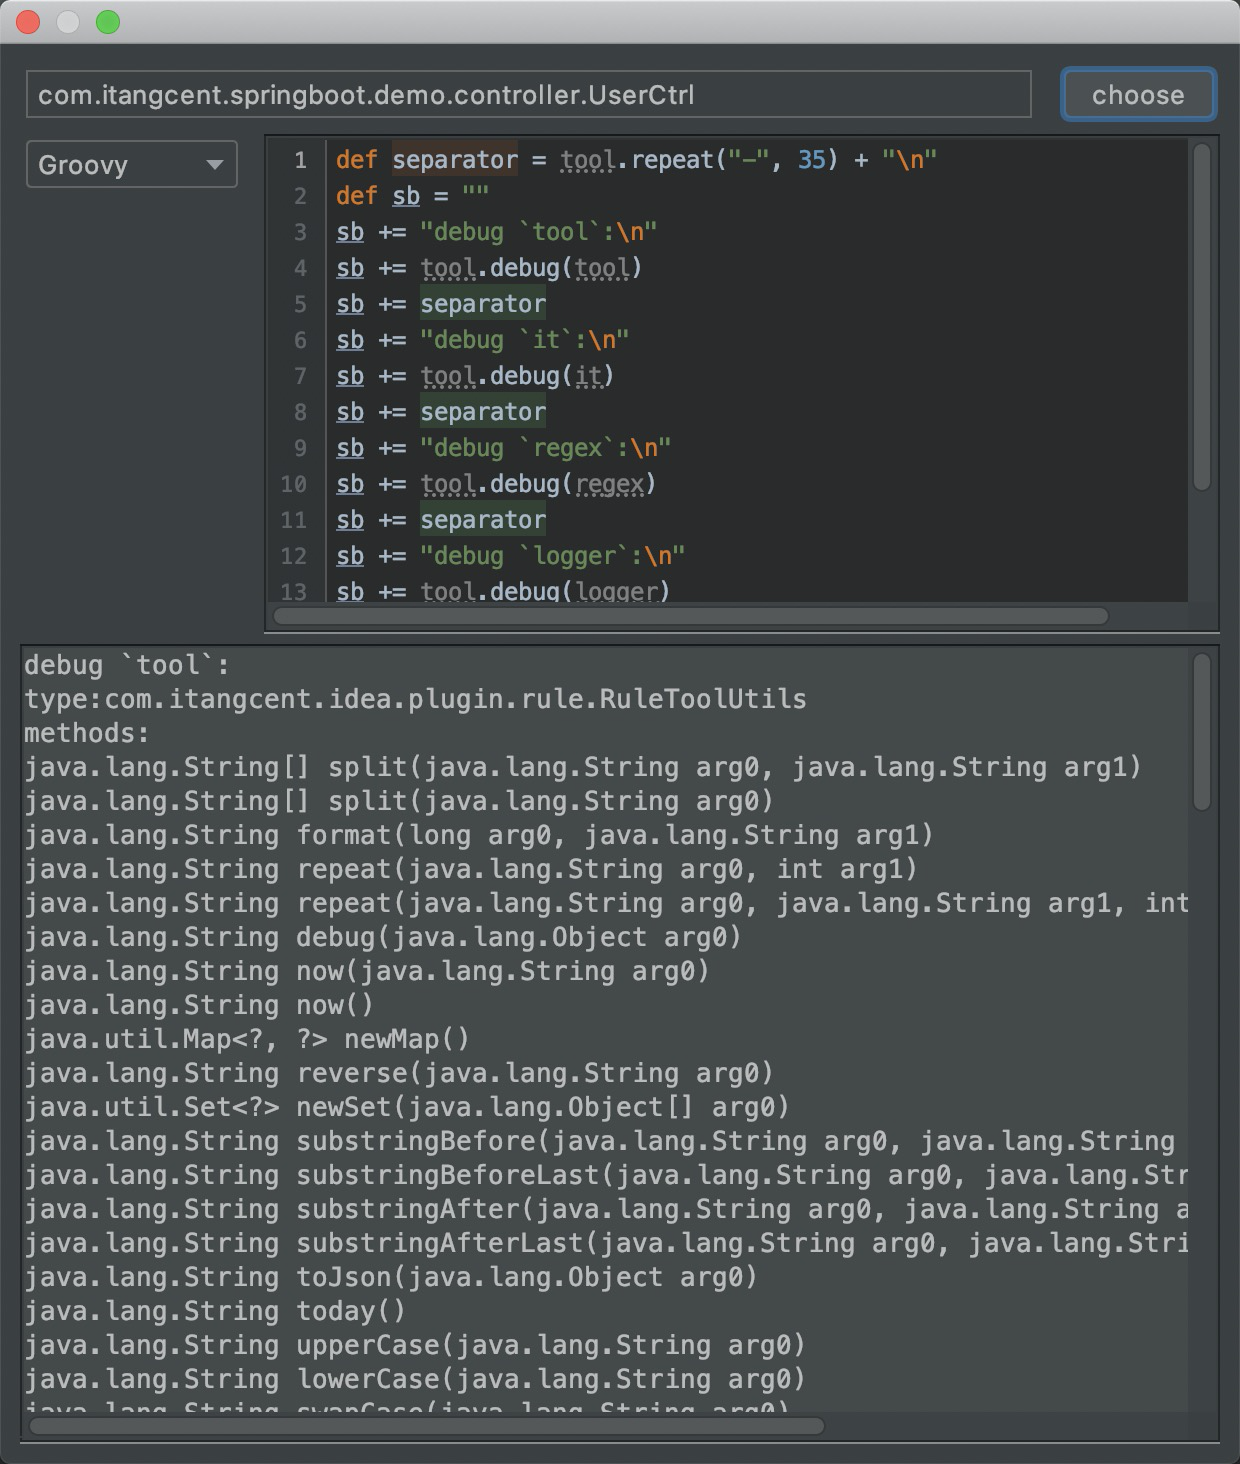
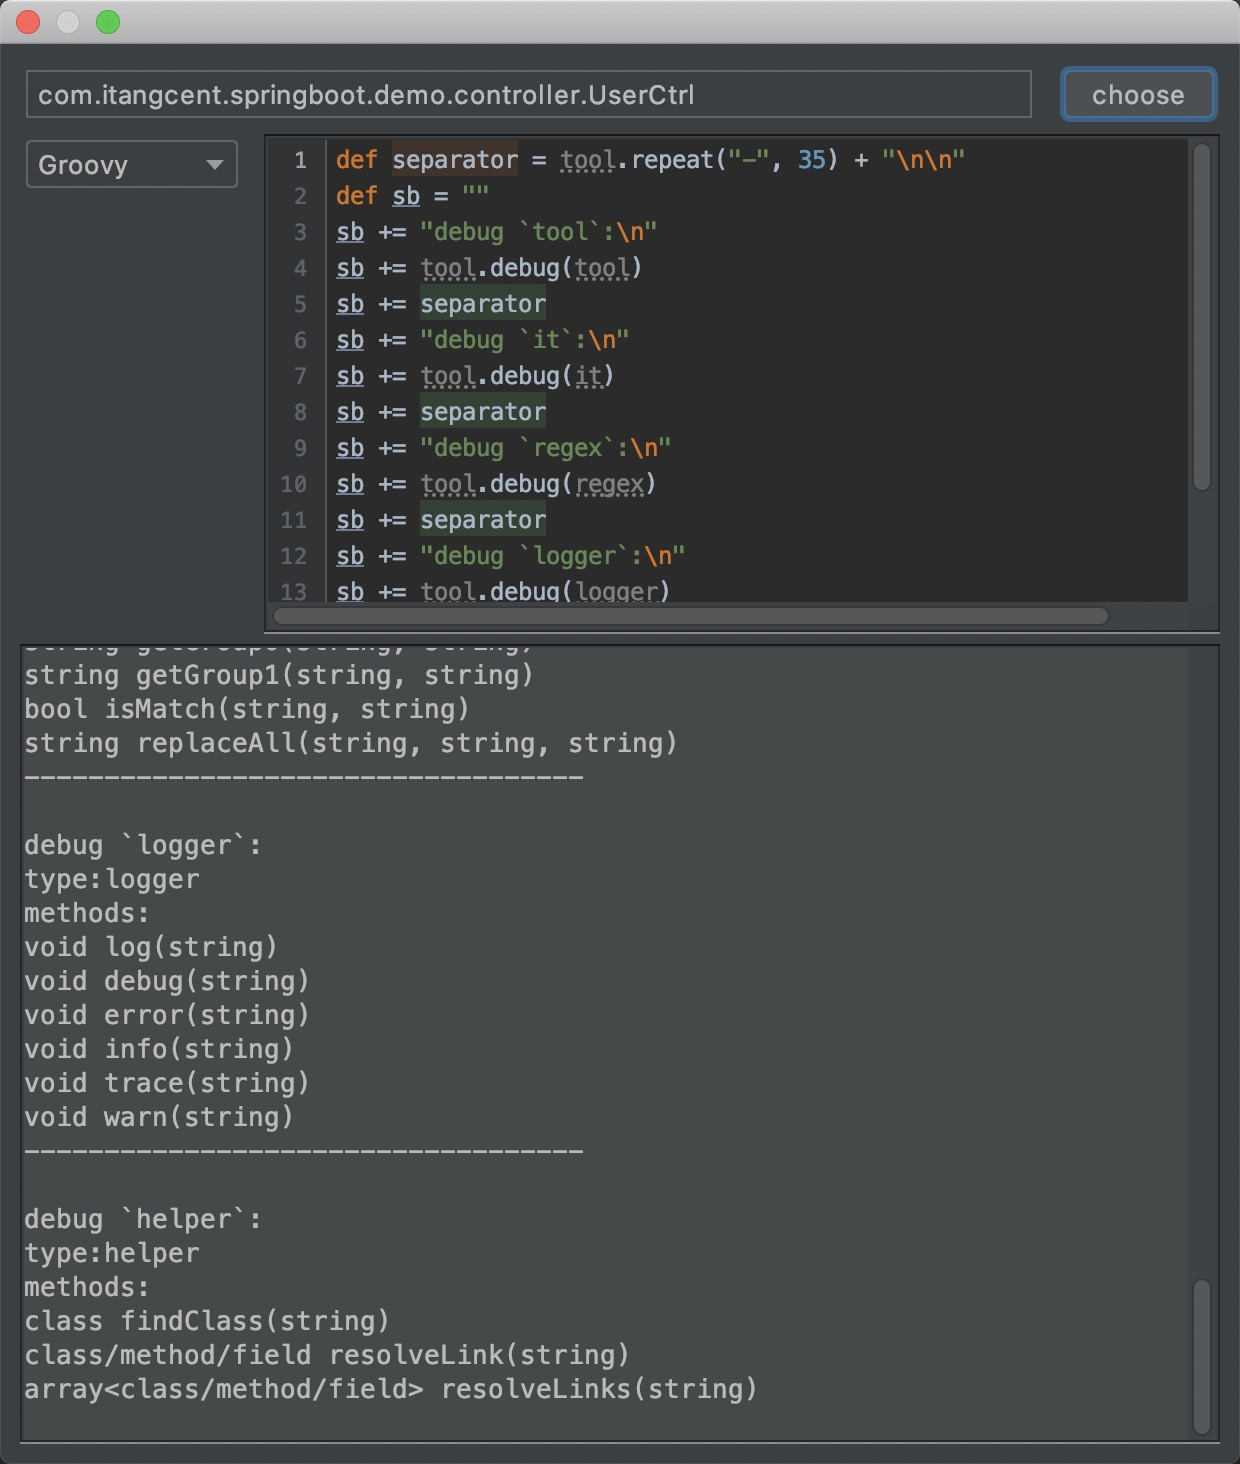
update debug.md

diff --git a/docs/documents/debug.md b/docs/documents/debug.md
@@ -10,3 +10,24 @@
 - 左边选择调试脚本类型,具体可用类型视`JDK`支持情况:一般有`Groovy`/`JavaScript`/`General`
 - 脚本停止输入`3s`左右自动执行,并将执行结果显示在下方
 - 插件提供的工具/对象: [tools](/setting/tools.html)
+
+---
+
+调试对象默认选中的是`class`
+如果需要调试其他对象可以尝试在脚本头部重新对`it`赋值.
+
+例如需要对`method`的调试可以尝试如下:
+
+```groovy
+//切换上下文,应用对象`it`现在是类中的第一个方法
+it = it.methods()[0]
+
+//现在可以尝试写以`method`为应用对象的脚本
+def separator = tool.repeat("-", 35) + "\n\n"
+def sb = ""
+sb += "debug `tool`:\n"
+sb += tool.debug(tool)
+sb += separator
+sb += "debug `it`:\n"
+sb += tool.debug(it)
+```
